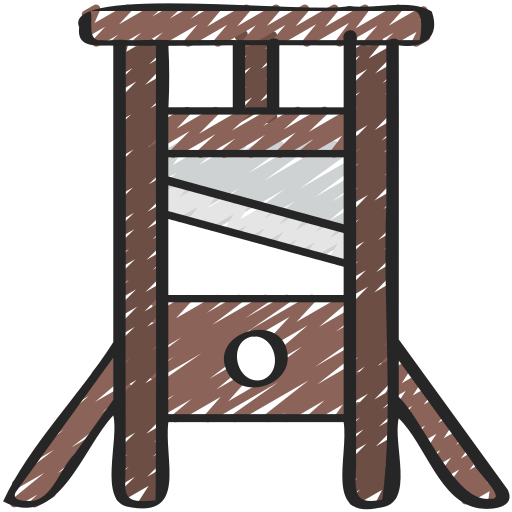
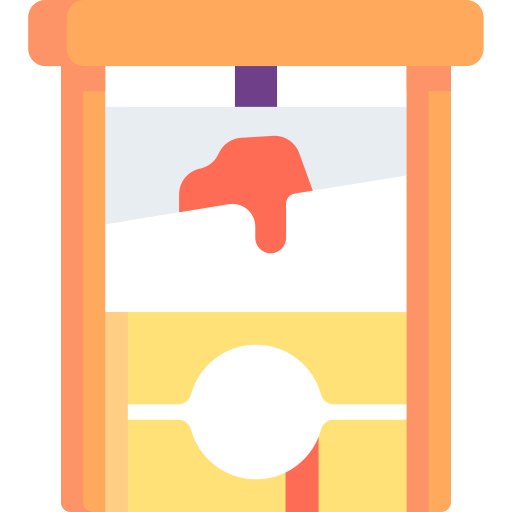
style: 將魔典圖形切換按鈕之 Emoji 替換為專屬設計圖片檔
src/components/GrimoireBoard.vue:
重構 currentShapeIcon 計算屬性，將其回傳值從 Emoji 字元修改為對應的 /pic/circle.png、/pic/oval.png 與 /pic/rectangle.png 圖片路徑。
修改 HTML 模板中的 shape 按鈕，將原本包裹文字的 <span class="icon"> 替換為以 :src="currentShapeIcon" 動態載入圖片的 <img> 標籤，完美實現高品質客製化介面。
style: 側邊選單主按鈕之齒輪 Emoji 替換為客製化圖片

src/components/GrimoireBoard.vue:
重構功能選單主開關按鈕 menu-toggle-btn 的 HTML 結構。
使用 v-if 與 v-else 語法，在展開時渲染原本的 ✕ 符號，收起時則載入 /pic/gear.png 客製化齒輪圖片，兼顧操作直覺與頂級視覺效果。
style: 重構設置面板之魔典排列圖形選項為高品質客製化圖片

src/components/SettingsPanel.vue:
修改 shapes 常數陣列，將正圓、橢圓、矩形之 icon 屬性從舊版 Emoji 替換為新版 /pic/circle.png、/pic/oval.png 與 /pic/rectangle.png 圖片路徑。
將 HTML 中魔典排列圖形選取器的 v-for 遍歷對象修正為 shapes，並將內部的 span 圖示替換為動態載入圖片的 <img> 標籤。
於 CSS 的 .layout-option .opt-icon 規則中補上 object-fit: contain; 限制，防止圖片變形跑版。
style: 替換計時器膠囊之計時與靜音 Emoji 為客製化沙漏與靜音圖片

src/components/TimerWidget.vue:
修改 timer-mini 懸浮膠囊的 HTML 結構，將原本的計時（⏱）與停止鐘聲（🔕）Emoji 替換為動態 :src 載入 /pic/hourglass.png 與 /pic/silent.png 的 <img> 標籤。
於 CSS 中追加 .timer-mini .icon 樣式，限制圖片寬高為 14px 並啟用 object-fi
style: 替換計時器展開控制按鈕之 Emoji 為高品質客製化圖片

src/components/TimerWidget.vue:
重構計時器展開面板之 timer-controls 按鈕結構，將原本的開始（▶）、暫停（⏸）、重置（🔄）Emoji 全數替換為動態對應的客製化 <img> 標籤與 <span> 文字。
於 CSS 中為 .control-btn .btn-icon 補上寬高 14px 與 object-fit: contain 的限制，以實現高品質且高精度的對齊。

diff --git a/src/components/GrimoireBoard.vue b/src/components/GrimoireBoard.vue
@@ -117,7 +117,8 @@
 
         <!-- 檢視按鈕 (僅展開時顯示) -->
         <button v-if="uiStore.isBluffsExpanded" class="bluffs-showcase-btn" @click="uiStore.isBluffsShowcase = true" title="展示給惡魔/瘋子">
-          <span class="icon">👁</span>
+          <!-- <span class="icon">👁</span> -->
+          <img class="icon" src="/pic/search.png" />
         </button>
 
         <!-- 惡魔分頁 (僅展開時顯示) -->
@@ -184,18 +185,22 @@
         @click="uiStore.isSideToolbarExpanded = !uiStore.isSideToolbarExpanded"
         :title="uiStore.isSideToolbarExpanded ? '收起選單' : '功能選單'"
       >
-        <span class="icon">{{ uiStore.isSideToolbarExpanded ? '✕' : '⚙' }}</span>
+        <img class="icon" v-if="uiStore.isSideToolbarExpanded" src="/pic/close.png"/>
+        <img class="icon" v-else src="/pic/gear.png" />
       </button>
 
       <!-- 被收藏的功能項 -->
       <transition-group name="side-stagger">
         <template v-if="uiStore.isSideToolbarExpanded">
           <button key="settings" class="menu-btn" @click="uiStore.openPanel('settings'); uiStore.isSideToolbarExpanded = false" title="設置">
-            <span class="icon">🛠</span>
+            <!-- <span class="icon">🛠</span> -->
+            <img class="icon" src="/pic/repair.png" />
+
           </button>
 
           <button key="night-order" class="menu-btn" @click="uiStore.openPanel('night-order'); uiStore.isSideToolbarExpanded = false" title="夜晚順序">
-            <span class="icon">🌙</span>
+            <!-- <span class="icon">🌙</span> -->
+             <img class="icon" src="/pic/moon.png" />
           </button>
 
           <button 
@@ -206,8 +211,10 @@
             :title="uiStore.isRolesHidden ? '顯示角色' : '隱藏角色'"
           >
             <div class="privacy-icon-wrapper">
-              <span class="icon">👁</span>
-              <span v-if="uiStore.isRolesHidden" class="ban-icon">🚫</span>
+              <!-- <span class="icon">👁</span> -->
+              <img class="icon" src="/pic/show.png" />
+              <!-- <span v-if="uiStore.isRolesHidden" class="ban-icon">🚫</span> -->
+              <img class="ban-icon" v-if="uiStore.isRolesHidden" src="/pic/hide.png" />
             </div>
           </button>
           
@@ -217,11 +224,12 @@
             @click="uiStore.cycleGrimoireShape(); uiStore.isSideToolbarExpanded = false" 
             :title="`魔典圖形: ${currentShapeLabel}`"
           >
-            <span class="icon">{{ currentShapeIcon }}</span>
+            <img class="icon" :src="currentShapeIcon" />
           </button>
           
           <button key="whiteboard" class="menu-btn" @click="uiStore.openPanel('whiteboard'); uiStore.isSideToolbarExpanded = false" title="說書人資訊">
-            <span class="icon">📝</span>
+            <!-- <span class="icon">📝</span> -->
+            <img class="icon" src="/pic/notes.png" />
           </button>
         </template>
       </transition-group> 
@@ -740,8 +748,12 @@ function onTokenMouseUp() {
 
 
 const currentShapeIcon = computed(() => {
-  const map = { circle: '⏺', oval: '0⃣', rect: '⏹' }
-  return map[uiStore.grimoireShape as keyof typeof map] || '⏺'
+  const map = { 
+    circle: '/pic/circle.png', 
+    oval: '/pic/oval.png', 
+    rect: '/pic/rectangle.png' 
+  }
+  return map[uiStore.grimoireShape as keyof typeof map] || '/pic/circle.png'
 })
 
 const currentShapeLabel = computed(() => {
@@ -1727,6 +1739,9 @@ const activePanelComponent = computed(() => {
 
 .menu-btn .icon, .privacy-btn .icon, .side-action-group .side-action-btn .icon, .menu-toggle-btn .icon {
   font-size: 10px;
+  width: 16px;
+  height: 16px;
+  object-fit: contain;
 }
 
 .zoom-controls-bottom .reset-btn {
@@ -1782,7 +1797,9 @@ const activePanelComponent = computed(() => {
   top: 50%;
   left: 50%;
   transform: translate(-50%, -55%);
-  font-size: 16px;
+  width: 16px;
+  height: 16px;
+  object-fit: contain;
   opacity: 0.85;
   pointer-events: none;
 }

diff --git a/src/components/TimerWidget.vue b/src/components/TimerWidget.vue
@@ -9,8 +9,14 @@
     <div class="timer-controls-row">
       <!-- 縮小狀態 (Mini Mode) -->
       <div class="timer-mini" :class="{ 'bell-playing-mini': uiStore.isBellPlaying }" @click="handleMiniClick">
-        <span class="icon">{{ uiStore.isBellPlaying ? '🔕' : '⏱' }}</span>
-        <span class="time-text">{{ uiStore.isBellPlaying ? '停止鐘聲' : formattedTime }}</span>
+        <img 
+          class="icon" 
+          :src="uiStore.isBellPlaying ? '/pic/silent.png' : '/pic/hourglass.png'" 
+        />
+        <span class="time-text">
+          <img v-if="uiStore.isBellPlaying" class="stop-bell-icon" src="/pic/stop-button.png" />
+          <template v-else>{{ formattedTime }}</template>
+        </span>
       </div>
 
       <!-- 播放釘選自訂音效的按鈕 (並排在碼錶右側) -->
@@ -23,7 +29,10 @@
         }"
         @click="uiStore.togglePinnedSound()"
       >
-        <span class="icon">{{ uiStore.isCustomSoundPlaying && uiStore.playingCustomSoundId === uiStore.pinnedSoundId ? '⏹' : '▶' }}</span>
+        <img 
+          class="icon" 
+          :src="uiStore.isCustomSoundPlaying && uiStore.playingCustomSoundId === uiStore.pinnedSoundId ? '/pic/stop-button.png' : '/pic/play.png'" 
+        />
         <span class="text" v-if="uiStore.pinnedSoundShortName">{{ uiStore.pinnedSoundShortName }}</span>
       </button>
     </div>
@@ -57,13 +66,16 @@
 
         <div class="timer-controls">
           <button v-if="!uiStore.isTimerRunning" class="control-btn play" @click="uiStore.startTimer()">
-            ▶ 開始
+            <img class="btn-icon" src="/pic/play.png" />
+            <!-- <span>開始</span> -->
           </button>
           <button v-else class="control-btn pause" @click="uiStore.pauseTimer()">
-            ⏸ 暫停
+            <img class="btn-icon" src="/pic/pause.png" />
+            <!-- <span>暫停</span> -->
           </button>
           <button class="control-btn reset" @click="uiStore.resetTimer()">
-            🔄 重置
+            <img class="btn-icon" src="/pic/reset.png" />
+            <!-- <span>重置</span> -->
           </button>
         </div>
       </div>
@@ -124,6 +136,20 @@ function handleMiniClick() {
   box-shadow: 0 4px 12px rgba(0,0,0,0.5);
   transition: all 0.3s ease;
   user-select: none;
+}
+
+.timer-mini .icon {
+  width: 14px;
+  height: 14px;
+  object-fit: contain;
+  display: block;
+}
+
+.stop-bell-icon {
+  width: 12px;
+  height: 12px;
+  object-fit: contain;
+  display: block;
 }
 
 .timer-mini:hover {
@@ -271,6 +297,12 @@ function handleMiniClick() {
   gap: 4px;
 }
 
+.control-btn .btn-icon {
+  width: 14px;
+  height: 14px;
+  object-fit: contain;
+}
+
 .control-btn.play {
   background: rgba(76, 175, 80, 0.2);
   border: 1px solid rgba(76, 175, 80, 0.5);
@@ -400,6 +432,13 @@ function handleMiniClick() {
   padding: 0;
   border-radius: 50%;
   gap: 0;
+}
+
+.main-custom-sound-btn .icon {
+  width: 14px;
+  height: 14px;
+  object-fit: contain;
+  display: block;
 }
 
 .main-custom-sound-btn:hover {

diff --git a/src/components/SettingsPanel.vue b/src/components/SettingsPanel.vue
@@ -22,7 +22,7 @@
           <div class="stat-card" title="處決門檻">
             <!-- <span class="stat-card-icon">⚔</span> -->
             <span class="stat-icon">
-            <img src="/pic/guillotine (1).png" alt="處決門檻" class="stat-img img-guillotine" />
+            <img src="/pic/guillotine.png" alt="處決門檻" class="stat-img img-guillotine" />
             </span>
             <span class="stat-card-val">{{ gameStore.threshold }}</span>
             <span class="stat-card-label">處決門檻</span>
@@ -223,7 +223,7 @@
             :class="{ active: uiStore.grimoireShape === shape.id }"
             @click="uiStore.setGrimoireShape(shape.id as any)"
           >
-            <span class="opt-icon">{{ shape.icon }}</span>
+            <img class="opt-icon" :src="shape.icon" />
             <span class="opt-label">{{ shape.label }}</span>
             <div v-if="uiStore.grimoireShape === shape.id" class="active-check">✓</div>
           </button>
@@ -515,9 +515,9 @@ async function processImage(dataUrl: string): Promise<string> {
 }
 
 const shapes = [
-  { id: 'circle', label: '經典正圓', icon: '⏺' },
-  { id: 'oval', label: '優雅橢圓', icon: '0⃣' },
-  { id: 'rect', label: '工整矩形', icon: '⏹' },
+  { id: 'circle', label: '經典正圓', icon: '/pic/circle.png' },
+  { id: 'oval', label: '優雅橢圓', icon: '/pic/oval.png' },
+  { id: 'rect', label: '工整矩形', icon: '/pic/rectangle.png' },
 ]
 
 const layouts = [
@@ -937,6 +937,7 @@ function resetGame() {
   align-items: center;
   justify-content: center;
   font-size: 18px;
+  object-fit: contain;
 }
 
 .opt-img {

diff --git a/src/components/StatusBar.vue b/src/components/StatusBar.vue
@@ -56,7 +56,7 @@
         </span>
         <span class="stat-item threshold" v-if="gameStore.phase === 'Day'" title="門檻">
           <span class="stat-icon">
-            <img src="/pic/guillotine (1).png" alt="處決門檻" class="stat-img img-guillotine" />
+            <img src="/pic/guillotine.png" alt="處決門檻" class="stat-img img-guillotine" />
           </span>
           <!-- <span class="stat-icon">⚔</span> -->
           <span class="stat-num">{{ gameStore.threshold }}</span>
